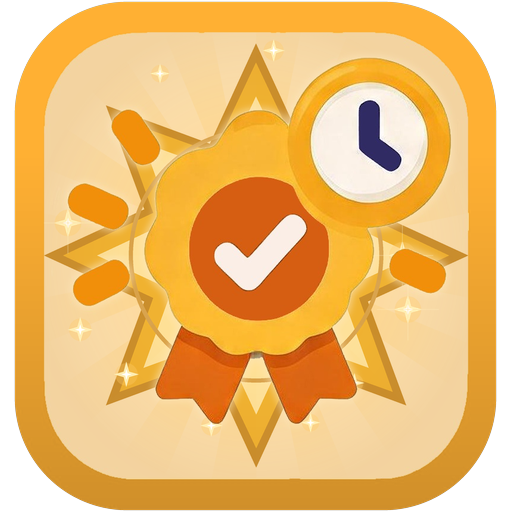
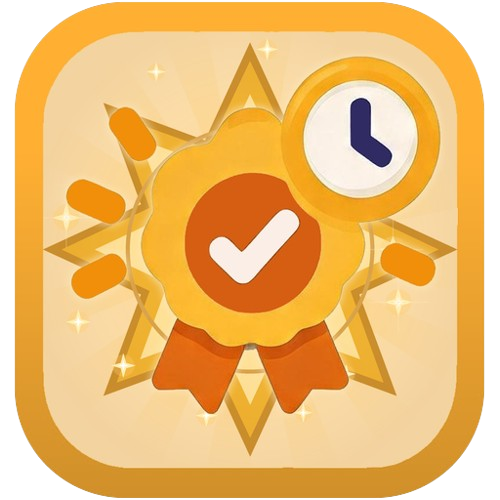
icones basicos completos

diff --git a/constants/badgeIcons.ts b/constants/badgeIcons.ts
@@ -40,37 +40,44 @@ export const BADGE_ICON_MAP: Record<string, LucideIcon> = {
 export const BADGE_IMAGE_MAP: Record<string, number> = {
     // Básico — a arte original, um desenho por medalha.
     first_session: require("@/assets/badges/first_session.png"),
-    hours_1:       require("@/assets/badges/hours_1.png"),
-    hours_2:       require("@/assets/badges/hours_2.png"),
-    hours_5:       require("@/assets/badges/hours_5.png"),
-    hours_10:      require("@/assets/badges/hours_10.png"),
-    questions_5:   require("@/assets/badges/questions_5.png"),
-    questions_10:  require("@/assets/badges/questions_10.png"),
-    questions_25:  require("@/assets/badges/questions_25.png"),
-    weekly_goal:   require("@/assets/badges/weekly_goal.png"),
+    hours_1: require("@/assets/badges/hours_1.png"),
+    hours_2: require("@/assets/badges/hours_2.png"),
+    hours_5: require("@/assets/badges/hours_5.png"),
+    hours_10: require("@/assets/badges/hours_10.png"),
+    questions_5: require("@/assets/badges/questions_5.png"),
+    questions_10: require("@/assets/badges/questions_10.png"),
+    questions_25: require("@/assets/badges/questions_25.png"),
+    weekly_goal: require("@/assets/badges/weekly_goal.png"),
+    sessions_3: require("@/assets/badges/streak.png"),
+    sessions_5: require("@/assets/badges/raio.png"),
+    sessions_10: require("@/assets/badges/luminaria_1.png"),
+    questions_50: require("@/assets/badges/livro_aberto_1.png"),
+    hours_15: require("@/assets/badges/relogio.png"),
+    weekly_goal_2: require("@/assets/badges/estrela_check_1.png"),
+
 
     // Intermediário — cada medalha tem o próprio desenho, na variante dourada.
     // `weekly_goal_12` ficou de fora: os desenhos acabaram e repetir um aqui só
     // para preencher tiraria o sentido de cada medalha ter o seu.
-    hours_25:      require("@/assets/badges/ampulheta_livros_2.png"),
-    hours_50:      require("@/assets/badges/ampulheta_alada_2.png"),
-    hours_75:      require("@/assets/badges/roseta_relogio_2.png"),
-    hours_100:     require("@/assets/badges/trofeu_2.png"),
-    hours_150:     require("@/assets/badges/capelo_diploma_2.png"),
+    hours_25: require("@/assets/badges/ampulheta_livros_2.png"),
+    hours_50: require("@/assets/badges/ampulheta_alada_2.png"),
+    hours_75: require("@/assets/badges/roseta_relogio_2.png"),
+    hours_100: require("@/assets/badges/trofeu_2.png"),
+    hours_150: require("@/assets/badges/capelo_diploma_2.png"),
     questions_100: require("@/assets/badges/lupa_2.png"),
     questions_200: require("@/assets/badges/livro_aberto_2.png"),
     questions_300: require("@/assets/badges/prancheta_2.png"),
     questions_500: require("@/assets/badges/pilha_livros_2.png"),
-    sessions_20:   require("@/assets/badges/luminaria_2.png"),
-    sessions_30:   require("@/assets/badges/broto_2.png"),
-    sessions_50:   require("@/assets/badges/capelo_roxo_2.png"),
+    sessions_20: require("@/assets/badges/luminaria_2.png"),
+    sessions_30: require("@/assets/badges/broto_2.png"),
+    sessions_50: require("@/assets/badges/capelo_roxo_2.png"),
     weekly_goal_5: require("@/assets/badges/estrela_check_2.png"),
     weekly_goal_8: require("@/assets/badges/chave_estrela_2.png"),
 
     // Elite — arte exclusiva para cada uma das cinco.
-    hours_1000:     require("@/assets/badges/elite_horas_1000.png"),
-    hours_2000:     require("@/assets/badges/elite_horas_2000.png"),
+    hours_1000: require("@/assets/badges/elite_horas_1000.png"),
+    hours_2000: require("@/assets/badges/elite_horas_2000.png"),
     questions_2000: require("@/assets/badges/elite_questoes_2000.png"),
-    sessions_365:   require("@/assets/badges/elite_sessoes_365.png"),
+    sessions_365: require("@/assets/badges/elite_sessoes_365.png"),
     weekly_goal_52: require("@/assets/badges/elite_meta_52.png"),
 };
